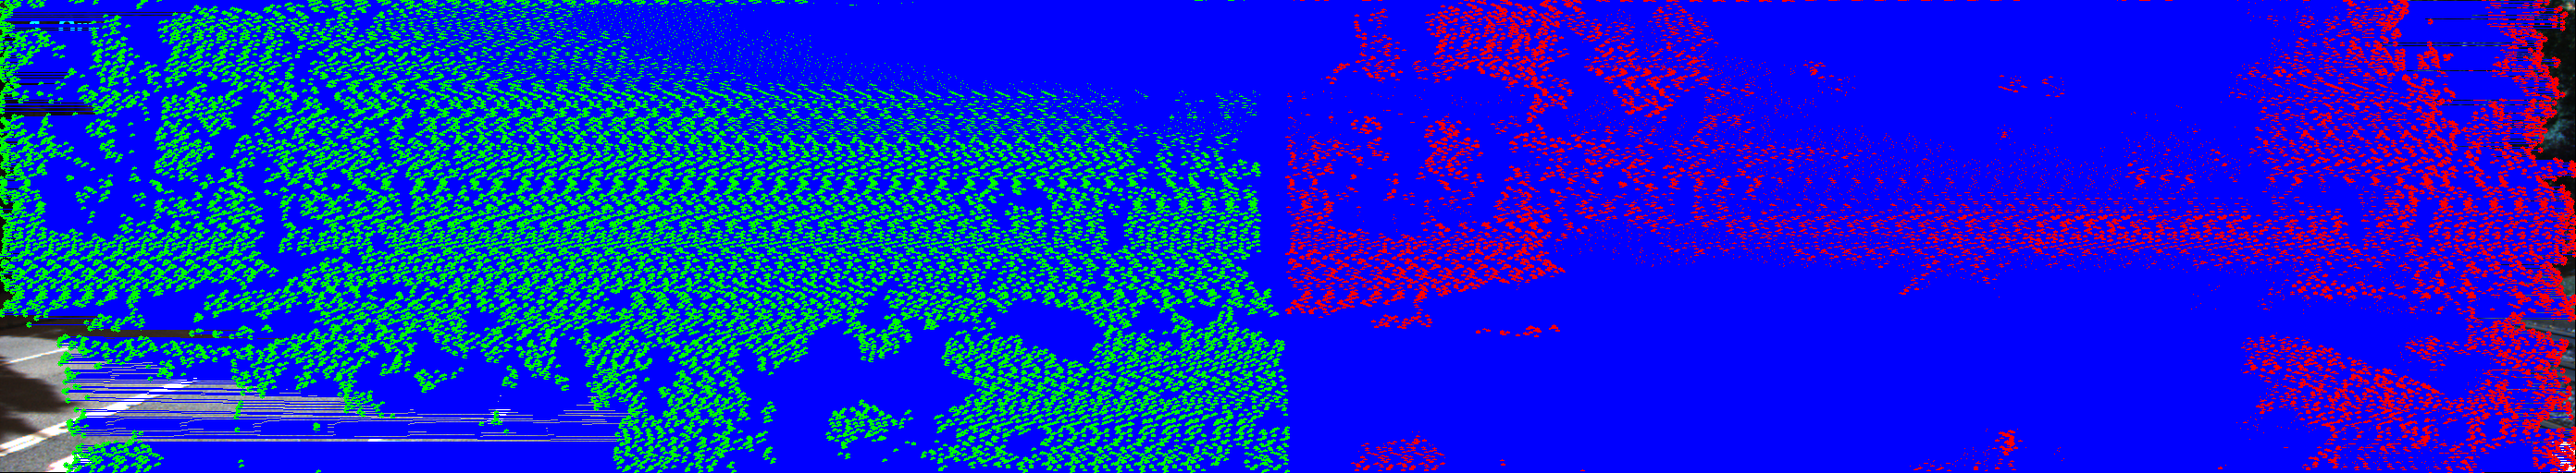
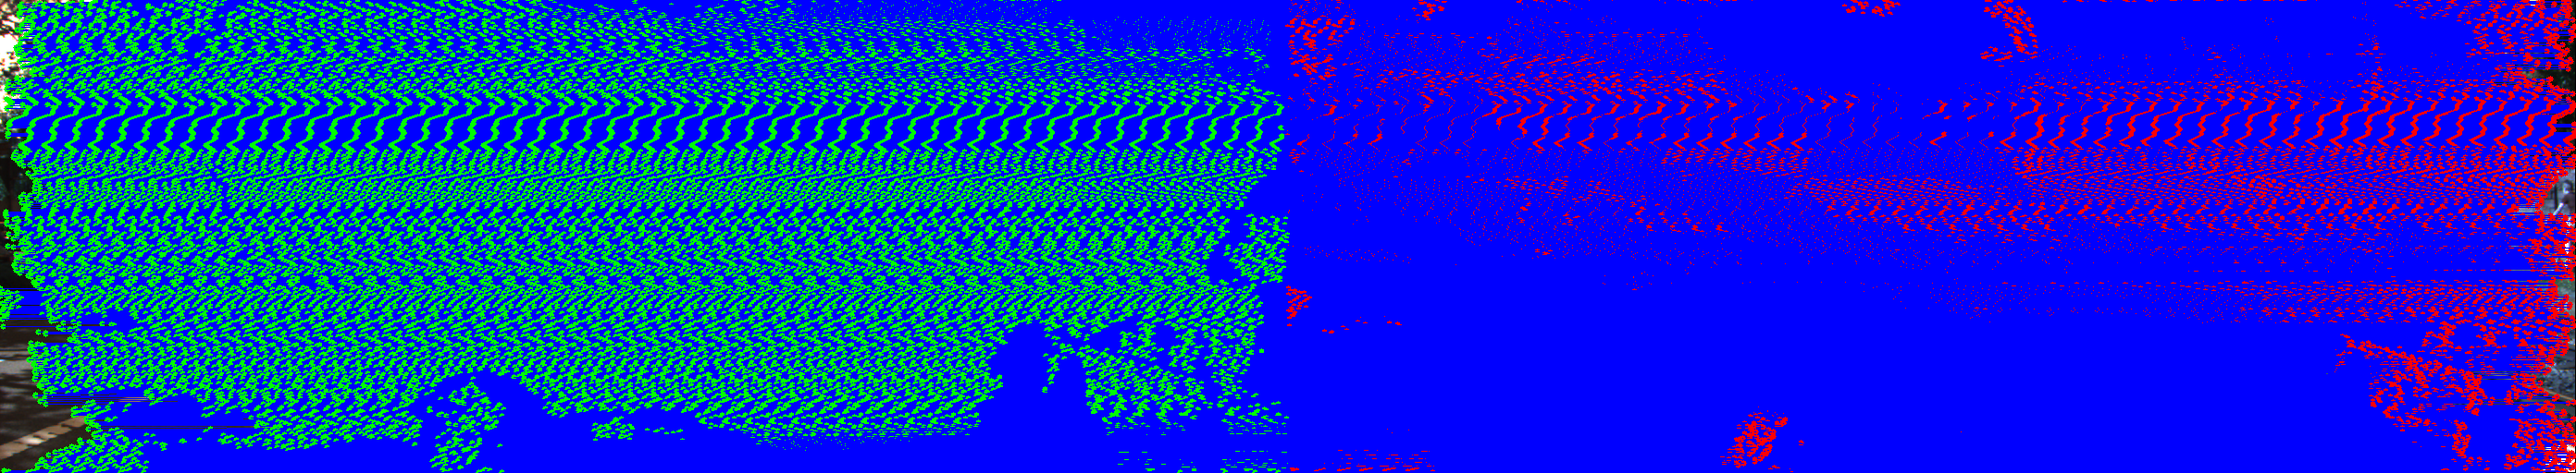
Data driven scale Alignment introduced

diff --git a/main.py b/main.py
@@ -2,7 +2,10 @@ import os
 import cv2
 import numpy as np
 from src.dataset import KittiTemporalDataset
-from src.metrics import compute_depth_metrics
+from src.metrics import( 
+    compute_depth_metrics, 
+    align_depth_scale
+)
 from src.temporal_stereo import (
     compute_bidirectional_optical_flow,
     estimate_depth_with_rotation_compensation,
@@ -79,6 +82,15 @@ def main():
         pred_depth = filter_road_plane_obstacles(
             pred_depth, K, camera_height=1.65
         )
+
+        if depth_gt is not None:
+            # Create a combined mask for valid pixels and available ground truth
+            eval_mask = (valid_mask) & (depth_gt > 0) & (pred_depth > 0)
+            
+            pred_depth, estimated_scale = align_depth_scale(pred_depth, depth_gt, eval_mask)
+            
+            print(f"  [Scale Correction] Applied scale factor: {estimated_scale:.4f}")
+        # ----------------------------------------------------------------------
 
         # 5. Compute metrics for current frame (Only if Ground Truth exists)
         if depth_gt is not None:

diff --git a/src/metrics.py b/src/metrics.py
@@ -47,3 +47,21 @@ def compute_depth_metrics(pred_depth, gt_depth):
         "Delta3": float(delta3),
         "Valid_Pixels": int(np.sum(mask)),
     }
+
+
+
+def align_depth_scale(pred_depth, depth_gt, valid_mask):
+    """
+    Calculates a global scale factor using the median ratio between 
+    Ground Truth (LiDAR) and Prediction, mitigating scale ambiguity.
+    """
+    mask = (valid_mask) & (depth_gt > 0) & (pred_depth > 0)
+    if not np.any(mask):
+        return pred_depth, 1.0
+    
+    # Compute median scale factor: median(GT / Pred)
+    scale_factor = np.median(depth_gt[mask] / pred_depth[mask])
+    
+    # Apply scale correction
+    aligned_depth = pred_depth * scale_factor
+    return aligned_depth, scale_factor
